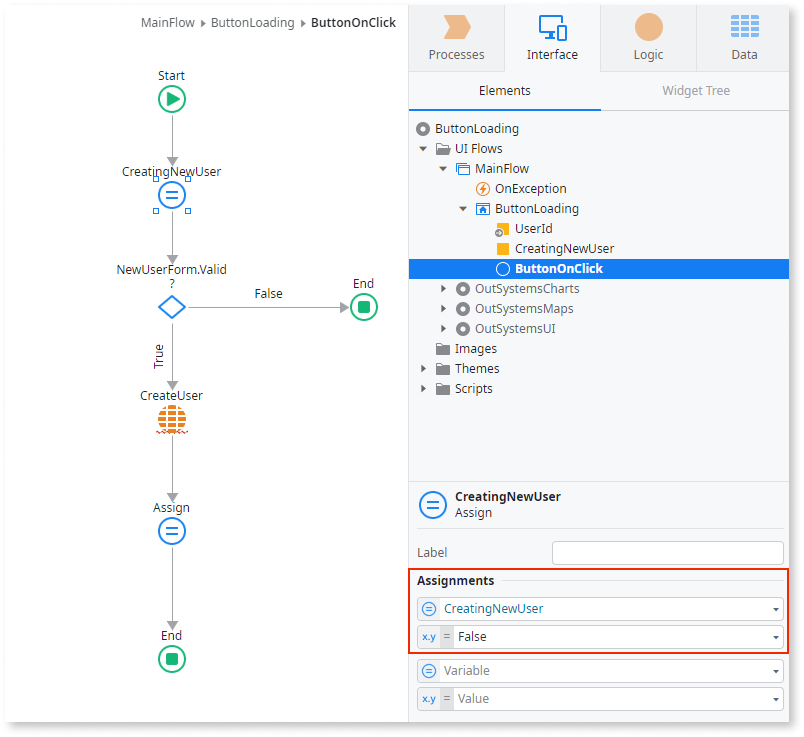
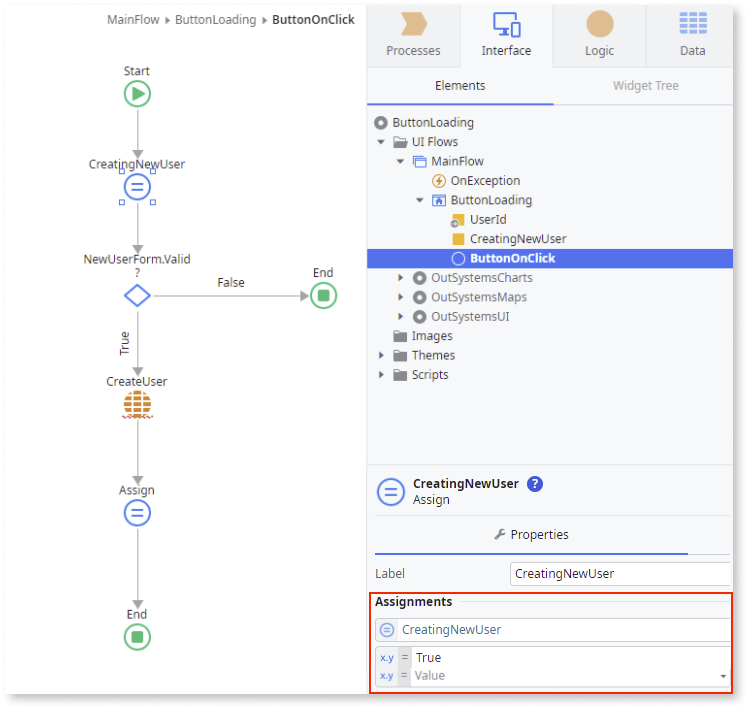
Updated image and steps - Button Loading

diff --git a/src/develop/ui/patterns/mobile/utilities/buttonloading.md b/src/develop/ui/patterns/mobile/utilities/buttonloading.md
@@ -43,11 +43,14 @@ You can use the Button Loading UI Pattern to call actions that don't run immedia
 
     ![Create a new local variable](<images/buttonloading-variable-ss.png>)
 
-1. In this example, we also set the **ShowLabelOnLoading** property to **False** so that the spinner doesn't show while the button logic is being executed.
+1. In this example, we also set the **ShowLabelOnLoading** property to **False**. 
+This displays the loading spinner only (not the Button label) while the button logic is being executed.
 
     ![Set the ShowLabelOnLoading property](<images/buttonloading-setprop-ss.png>)
 
-1. Double-click the **Button** widget and add the necessary logic. In this example, the **ButtonOnClick** action creates a new user. We also add **Assign** logic for the **Button Loading** widget. The first Assign has the **CreatingNewUser** set to **False**. This is so the spinner doesn't display. The second Assign has the **CreatingNewUser** set to **True**. (The logic is added between the two Assigns.)
+1. Double-click the **Button** widget and add the necessary logic. 
+
+    In this example, the **ButtonOnClick** action creates a new user. We also add **Assign** logic for the **Button Loading** widget. The first Assign has the **CreatingNewUser** set to **True**. (This is so the spinner shows the loading state.) The second Assign has the **CreatingNewUser** set to False. (The logic is added between the two Assigns.)
 
     ![Add the relevant logic](<images/buttonloading-logic-ss.png>)
 
@@ -62,5 +65,5 @@ After following these steps and publishing the module, you can test the pattern 
 | Property | Description |
 |---|---|
 | IsLoading (Boolean): Mandatory | If True, the button shows the loading spinner. If False, the button doesn't show the loading spinner. |
-| ShowLabelOnLoading (Boolean): Optional | If True, the loading spinner displays beside the label. If False, the loading spinner displays underneath the label. This is the default. |
+| ShowLabelOnLoading (Boolean): Optional | If True, the loading spinner displays beside the label. If False, the only the loading spinner is displayed. This is the default. |
 | ExtendedClass (Text): Optional | <p>Adds custom style classes to the Pattern. You define your [custom style classes](../../../look-feel/css.md) in your application using CSS.</p> <p>Examples <ul><li>Blank - No custom styles are added (default value).</li><li>"myclass" - Adds the ``myclass`` style to the UI styles being applied.</li><li>"myclass1 myclass2" - Adds the ``myclass1`` and ``myclass2`` styles to the UI styles being applied.</li></ul></p>You can also use the classes available on the OutSystems UI. For more information, see the [OutSystems UI Framework Cheat Sheet](https://outsystemsui.outsystems.com/OutsystemsUiWebsite/CheatSheet). |
